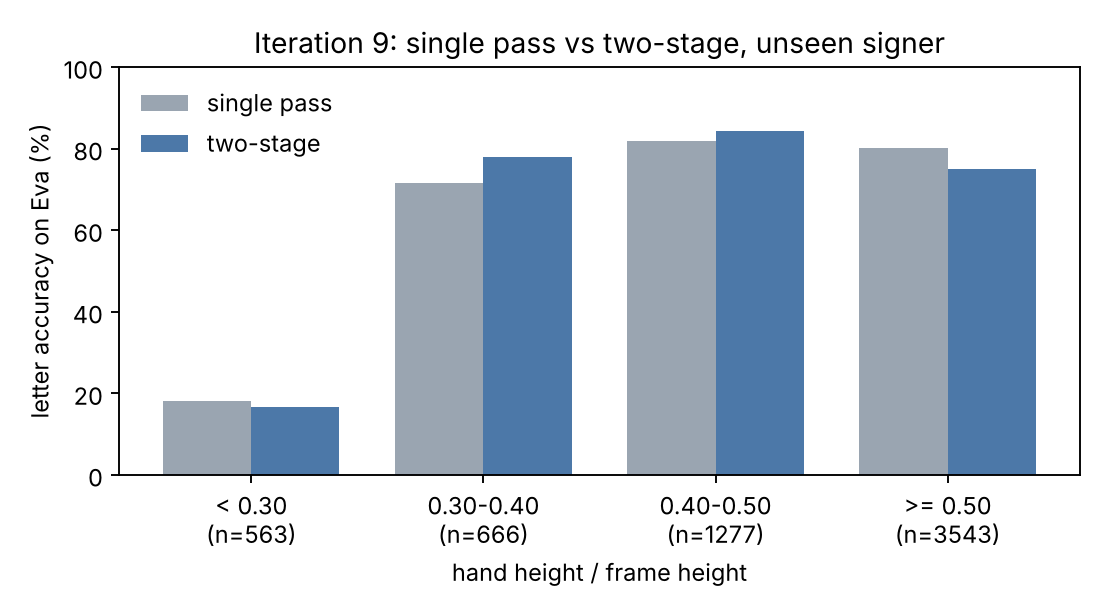
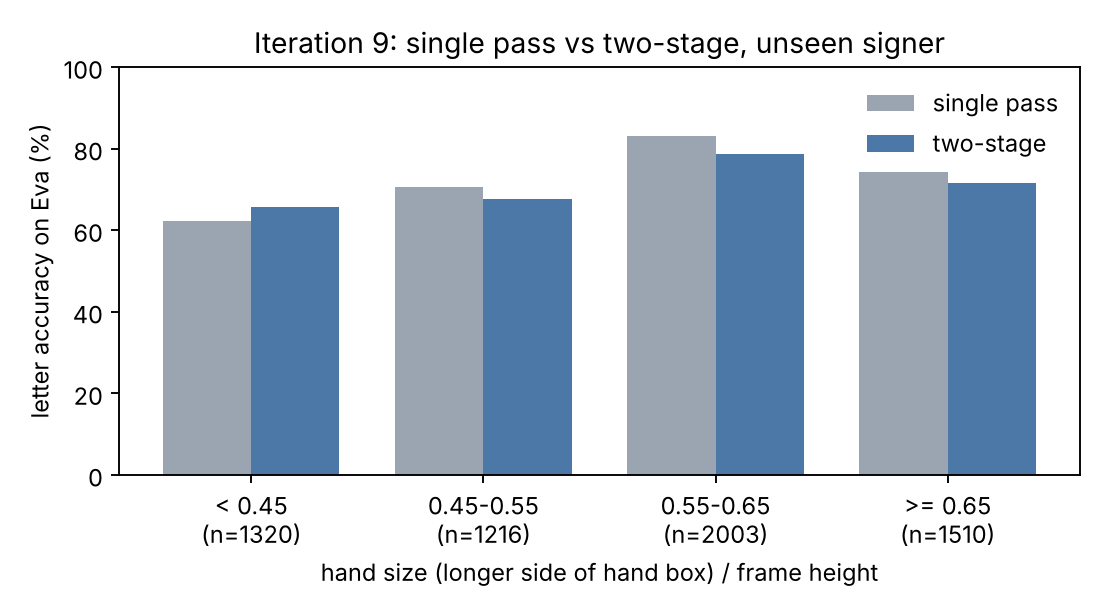
Iteration 9: bin by hand size (longest box side) instead of height, which mixed up sideways letters with small hands

diff --git a/train_final.py b/train_final.py
@@ -10,7 +10,7 @@ So the only thing that changes between the two rows is the landmark extractor.
 Comparison (letter accuracy on eva_close, J/Z excluded, digits merged as in letters.py):
   unseen signer   train on Kaggle + Isha's recording, test on Eva
   new session     train on Kaggle + Isha + Eva's older room recording, test on eva_close
-Both are reported overall and by hand height in the frame (simulated small hands are
+Both are reported overall and by hand size in the frame (simulated small hands are
 in results_twostage/; this is the real-data check).
 
 Final model: Kaggle + every data_own recording (two-stage where available), tilt+jitter
@@ -29,8 +29,8 @@ import numpy as np
 
 from letters import VIEW, load_letters, predict_proba, train_letters
 
-BINS = [0.0, 0.3, 0.4, 0.5, 9.0]
-BIN_NAMES = ["< 0.30", "0.30-0.40", "0.40-0.50", ">= 0.50"]
+BINS = [0.0, 0.45, 0.55, 0.65, 9.0]
+BIN_NAMES = ["< 0.45", "0.45-0.55", "0.55-0.65", ">= 0.65"]
 
 
 def main():
@@ -42,8 +42,10 @@ def main():
     os.makedirs(args.out, exist_ok=True)
 
     full = np.load(f"data_own/{args.test_rec}.npz", allow_pickle=False)
-    ys = full["landmarks_full"][..., 1]
-    hand_h = ys.max(1) - ys.min(1)  # hand height in frame-height units (single pass, same for both rows)
+    pts = full["landmarks_full"][..., :2]
+    # hand size = longer side of the hand's bounding box, in frame-height units (single pass, same for both
+    # rows). Height alone is misleading: sideways letters (G, H, P, Q) are short but not small.
+    hand_h = (pts.max(1) - pts.min(1)).max(1)
 
     results = {}
     for key, name in [("landmarks_full", "single pass"), ("landmarks", "two-stage")]:
@@ -76,7 +78,7 @@ def main():
                                                 bin_counts=counts)
             r = results[f"{setup} | {name}"]
             print(f"[{setup:13s} | {name:11s}] acc {r['accuracy'] * 100:5.1f} +/- {r['accuracy_std'] * 100:.1f}%  "
-                  f"by hand height " + "  ".join(f"{n} {a * 100:.0f}%" for n, a in zip(BIN_NAMES, r["by_hand_height"])))
+                  f"by hand size " + "  ".join(f"{n} {a * 100:.0f}%" for n, a in zip(BIN_NAMES, r["by_hand_height"])))
 
     # final model on everything, two-stage landmarks
     D = load_letters(key="landmarks")
@@ -92,14 +94,14 @@ def main():
                        confusable_pairs=confusions), f, indent=2)
 
     L = [f"## Iteration 9: single pass vs two-stage on {args.test_rec} (same frames)", "",
-         f"Letter accuracy (J/Z excluded, 24 letters). Hand height = fraction of the frame height. {args.seeds} seeds.", "",
-         "| Train | Landmarks | Test acc | " + " | ".join(f"hand {n}" for n in BIN_NAMES) + " |",
+         f"Letter accuracy (J/Z excluded, 24 letters). Hand size = longer side of the hand's box as a fraction of the frame height. {args.seeds} seeds.", "",
+         "| Train | Landmarks | Test acc | " + " | ".join(f"size {n}" for n in BIN_NAMES) + " |",
          "|---|---|---|" + "---|" * len(BIN_NAMES)]
     for r in results.values():
         L.append(f"| {r['setup']} | {r['landmarks']} | {r['accuracy'] * 100:.1f} +/- {r['accuracy_std'] * 100:.1f}% | " +
                  " | ".join(f"{a * 100:.1f}%" for a in r["by_hand_height"]) + " |")
     any_r = next(iter(results.values()))
-    L += ["", "Frames per hand-height bin: " + ", ".join(f"{n}: {c}" for n, c in zip(BIN_NAMES, any_r["bin_counts"])),
+    L += ["", "Frames per hand-size bin: " + ", ".join(f"{n}: {c}" for n, c in zip(BIN_NAMES, any_r["bin_counts"])),
           "", "unseen signer = Kaggle + Isha's recording (no Eva data). new session = also Eva's older room recording.",
           "", "Most confused letter pairs (unseen signer, two-stage; used by eval_cleanup.py): " +
           ", ".join(f"{p[0]}/{p[1]} ({c})" for p, c in confusions[:10]),
@@ -117,7 +119,7 @@ def main():
         r = results[f"unseen signer | {name}"]
         ax.bar(x + (i - 0.5) * 0.38, [a * 100 for a in r["by_hand_height"]], 0.38, label=name, color=color)
     ax.set_xticks(x, [f"{n}\n(n={c})" for n, c in zip(BIN_NAMES, any_r["bin_counts"])])
-    ax.set_xlabel("hand height / frame height")
+    ax.set_xlabel("hand size (longer side of hand box) / frame height")
     ax.set_ylabel("letter accuracy on Eva (%)")
     ax.set_ylim(0, 100)
     ax.legend(frameon=False)

diff --git a/results_final/results.md b/results_final/results.md
@@ -1,15 +1,15 @@
 ## Iteration 9: single pass vs two-stage on eva_close (same frames)
 
-Letter accuracy (J/Z excluded, 24 letters). Hand height = fraction of the frame height. 2 seeds.
+Letter accuracy (J/Z excluded, 24 letters). Hand size = longer side of the hand's box as a fraction of the frame height. 2 seeds.
 
-| Train | Landmarks | Test acc | hand < 0.30 | hand 0.30-0.40 | hand 0.40-0.50 | hand >= 0.50 |
+| Train | Landmarks | Test acc | size < 0.45 | size 0.45-0.55 | size 0.55-0.65 | size >= 0.65 |
 |---|---|---|---|---|---|---|
-| unseen signer | single pass | 73.9 +/- 0.4% | 18.2% | 71.5% | 81.8% | 80.3% |
-| new session | single pass | 81.8 +/- 0.1% | 40.7% | 69.0% | 84.4% | 89.7% |
-| unseen signer | two-stage | 71.8 +/- 0.1% | 16.7% | 78.0% | 84.2% | 75.0% |
-| new session | two-stage | 79.0 +/- 0.2% | 42.1% | 71.8% | 84.7% | 84.2% |
+| unseen signer | single pass | 73.9 +/- 0.4% | 62.3% | 70.5% | 83.2% | 74.3% |
+| new session | single pass | 81.8 +/- 0.1% | 75.4% | 72.5% | 89.4% | 84.7% |
+| unseen signer | two-stage | 71.8 +/- 0.1% | 65.6% | 67.8% | 78.6% | 71.6% |
+| new session | two-stage | 79.0 +/- 0.2% | 77.2% | 69.4% | 83.4% | 82.5% |
 
-Frames per hand-height bin: < 0.30: 563, 0.30-0.40: 666, 0.40-0.50: 1277, >= 0.50: 3543
+Frames per hand-size bin: < 0.45: 1320, 0.45-0.55: 1216, 0.55-0.65: 2003, >= 0.65: 1510
 
 unseen signer = Kaggle + Isha's recording (no Eva data). new session = also Eva's older room recording.
 
